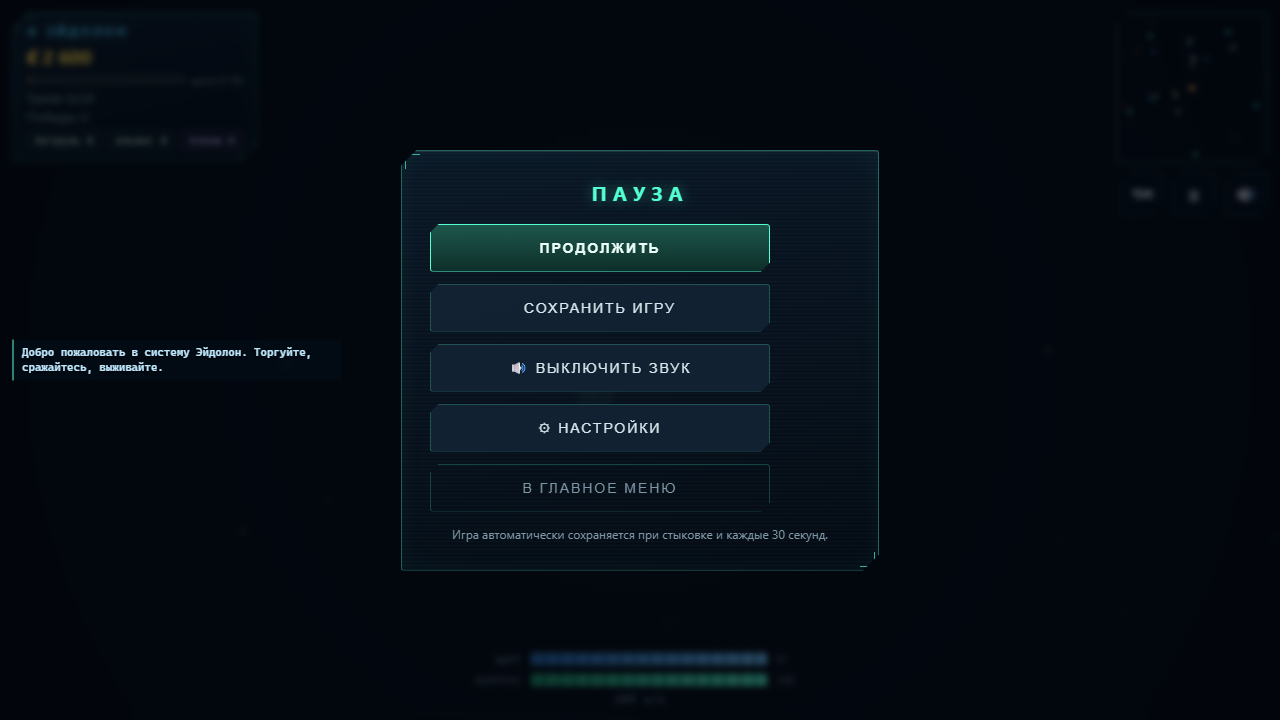
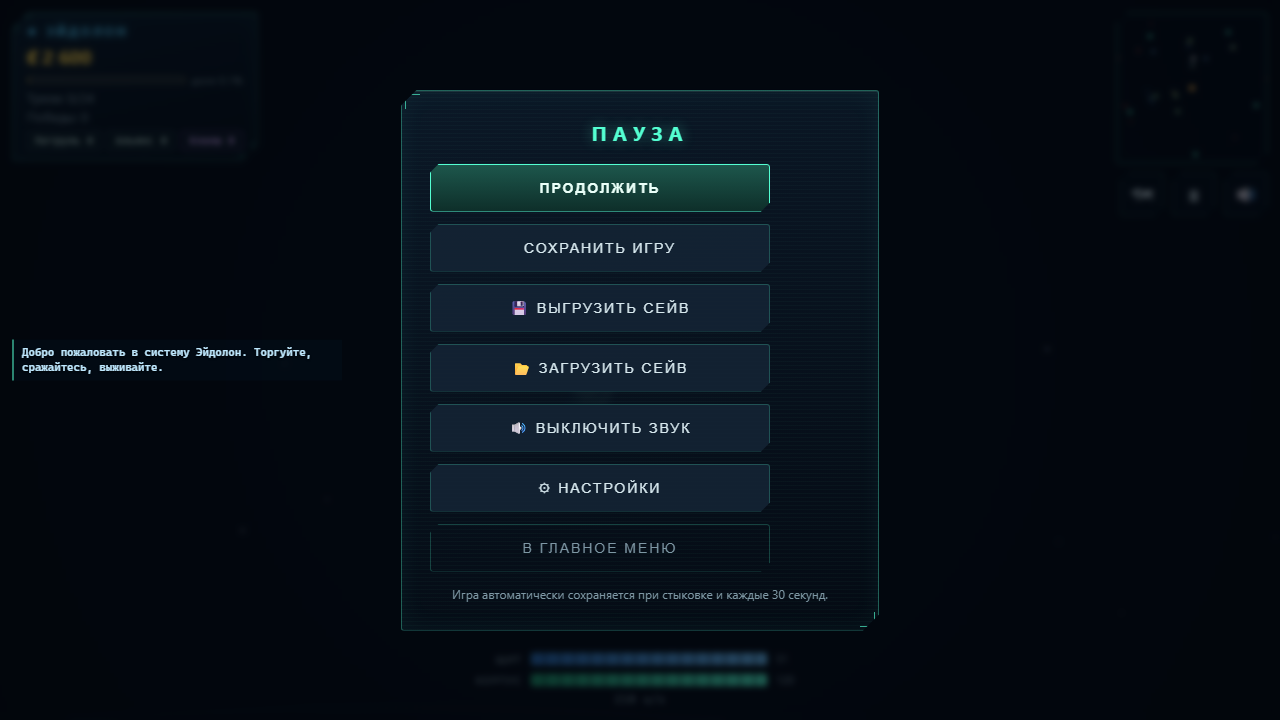
Этап 9c: экспорт/импорт сейва — выгрузка/загрузка JSON в меню паузы, общий валидатор save.ts

diff --git a/src/ui/PauseMenu.tsx b/src/ui/PauseMenu.tsx
@@ -1,10 +1,38 @@
-import { useState } from 'react'
+import { useRef, useState } from 'react'
 import { gameApi } from '@/game/uiBridge'
 import { SettingsPanel } from './SettingsPanel'
 
 export function PauseMenu({ muted }: { muted: boolean }) {
   const [settings, setSettings] = useState(false)
+  const [saveMsg, setSaveMsg] = useState<string | null>(null)
+  const fileRef = useRef<HTMLInputElement>(null)
   const api = () => gameApi.current
+
+  const exportSave = () => {
+    const json = api()?.exportSave()
+    if (!json) { setSaveMsg('Не удалось выгрузить сейв'); return }
+    const blob = new Blob([json], { type: 'application/json' })
+    const url = URL.createObjectURL(blob)
+    const a = document.createElement('a')
+    a.href = url
+    a.download = 'ranger-save.json'
+    a.click()
+    URL.revokeObjectURL(url)
+    setSaveMsg('Сейв выгружен в файл')
+  }
+
+  const importSave = async (file: File | undefined) => {
+    if (!file) return
+    try {
+      const text = await file.text()
+      const ok = api()?.importSave(text) ?? false
+      if (!ok) setSaveMsg('Файл не прошёл проверку — сейв не изменён')
+      // при успехе игра сама переходит в playing и меню закрывается
+    } catch {
+      setSaveMsg('Не удалось прочитать файл')
+    }
+  }
+
   return (
     <div className="screen dim-screen">
       <div className="menu-panel">
@@ -12,6 +40,15 @@ export function PauseMenu({ muted }: { muted: boolean }) {
         <div className="menu-buttons">
           <button className="btn btn-primary" onClick={() => api()?.resume()}>Продолжить</button>
           <button className="btn" onClick={() => api()?.saveNow()}>Сохранить игру</button>
+          <button className="btn" onClick={exportSave}>💾 Выгрузить сейв</button>
+          <button className="btn" onClick={() => fileRef.current?.click()}>📂 Загрузить сейв</button>
+          <input
+            ref={fileRef}
+            type="file"
+            accept=".json,application/json"
+            style={{ display: 'none' }}
+            onChange={(e) => { void importSave(e.target.files?.[0]); e.target.value = '' }}
+          />
           <button className="btn" onClick={() => api()?.toggleMute()}>
             {muted ? '🔇 Включить звук' : '🔊 Выключить звук'}
           </button>
@@ -19,6 +56,7 @@ export function PauseMenu({ muted }: { muted: boolean }) {
           {settings && <SettingsPanel onClose={() => setSettings(false)} />}
           <button className="btn btn-ghost" onClick={() => api()?.toTitle()}>В главное меню</button>
         </div>
+        {saveMsg && <div className="menu-note">{saveMsg}</div>}
         <div className="menu-note">Игра автоматически сохраняется при стыковке и каждые 30 секунд.</div>
       </div>
     </div>

diff --git a/src/game/game.ts b/src/game/game.ts
@@ -28,7 +28,7 @@ import {
 import type { SystemDef } from "./config";
 import { loadImage, loadPlanetTexture } from "./assets";
 import { economyTick, findDockTarget, generateWorld, goodName, kindName, priceOf, refreshAllPrices, updateOrbits } from "./world";
-import { loadSave, writeSave } from "./save";
+import { loadSave, writeSave, importSaveJson } from "./save";
 import { gameApi, uiBridge, type EndStats, type GameApi, type HudData, type MapSnapshot, type RadioSnapshot, type StationSnapshot } from "./uiBridge";
 import type { ActiveContract, Bolt, ContractOffer, Dockable, Faction, InstalledGear, MoneyPools, OccupationState, Pickup, PlayerState, PoolId, RaidOp, SaveGame, Ship } from "./types";
 import { AiState } from "./types";
@@ -1286,8 +1286,7 @@ export class Game {
     const save: SaveGame = {
       v: SAVE_VERSION,
       seed: this.seed,
-      system: this.systemDef.id,
-      player: {
+      system: this.systemDef.id,      player: {
         x: Math.round(p.x), y: Math.round(p.y),
         credits: Math.round(this.player.credits),
         hull: Math.round(p.hp), shield: Math.round(p.shield),
@@ -1339,6 +1338,21 @@ export class Game {
     };
     writeSave(save);
     uiBridge.set({ hasSave: true });
+  }
+
+  /** Этап 9c: выгрузка сейва в файл — свежая запись, потом чтение через валидатор. */
+  exportSave(): string | null {
+    this.saveNow();
+    const s = loadSave();
+    return s ? JSON.stringify(s) : null;
+  }
+
+  /** Этап 9c: загрузка сейва из файла; валидный — сразу восстанавливаемся. */
+  importSave(json: string): boolean {
+    if (!importSaveJson(json)) return false;
+    this.continueGame();
+    this.setNews("Сейв загружен из файла.");
+    return true;
   }
 
   /**
@@ -2887,6 +2901,8 @@ export class Game {
       setWaypoint: (kind, id) => this.setWaypoint(kind, id),
       clearWaypoint: () => this.clearWaypoint(),
       startRaid: (id) => this.startRaid(id),
+      exportSave: () => this.exportSave(),
+      importSave: (json) => this.importSave(json),
     };
     gameApi.current = api;
     // debug bridges (Этап 9b): only in `vite dev` or the test build (--mode test, .env.test).

diff --git a/src/game/save.ts b/src/game/save.ts
@@ -48,7 +48,11 @@ function validFleet(p: SaveGame["player"]): boolean {
 
 /** Parse and validate; returns null on any shape violation (caller falls back to a new game). */
 export function loadSave(): SaveGame | null {
-  const raw = storage.get<unknown>(SAVE_KEY, null);
+  return validateSave(storage.get<unknown>(SAVE_KEY, null));
+}
+
+/** The shape gate shared by localStorage load and file import (Этап 9c). */
+export function validateSave(raw: unknown): SaveGame | null {
   if (typeof raw !== "object" || raw === null) return null;
   const s = raw as SaveGame;
   if (s.v !== SAVE_VERSION) return null;
@@ -101,6 +105,19 @@ export function loadSave(): SaveGame | null {
 
 export function writeSave(save: SaveGame): void {
   storage.set(SAVE_KEY, save);
+}
+
+/**
+ * Import a save from a JSON file (Этап 9c): same validation gate as loadSave —
+ * a shaped-but-foreign file is rejected, a valid one replaces the stored save.
+ */
+export function importSaveJson(json: string): boolean {
+  let raw: unknown;
+  try { raw = JSON.parse(json); } catch { return false; }
+  const s = validateSave(raw);
+  if (!s) return false;
+  writeSave(s);
+  return true;
 }
 
 export function hasSave(): boolean {

diff --git a/src/game/uiBridge.ts b/src/game/uiBridge.ts
@@ -231,6 +231,10 @@ export interface GameApi {
   clearWaypoint(): void;
   /** Launch a raid operation on a free system (Этап 5d). */
   startRaid(systemId: string): void;
+  /** Export the current save as a JSON string (Этап 9c); null when nothing is stored. */
+  exportSave(): string | null;
+  /** Import a save from a JSON file (Этап 9c); true when the file passed validation. */
+  importSave(json: string): boolean;
 }
 
 export const gameApi: { current: GameApi | null } = { current: null };

diff --git a/PLAN.md b/PLAN.md
@@ -353,8 +353,13 @@
   (vite --mode test + .env.test) публикует мосты; каждый автотест имеет pre-хук на
   build:test, так что `npm run balance` и др. самодостаточны. __GAME_READY__ оставлен
   всегда — безобидный флаг готовности. Регрессия 7/7 зелёная.
-- [ ] **9c. Экспорт/импорт сейва.** Сейв только в localStorage: очистка браузера = потеря игры.
-  Кнопки «выгрузить/загрузить файл» в меню паузы (JSON, та же валидация save.ts).
+- [x] **9c. Экспорт/импорт сейва.** ✅ 2026-11-19. Сейв больше не заложник localStorage:
+  в меню паузы кнопки «💾 Выгрузить сейв» (Blob-скачивание `ranger-save.json`) и
+  «📂 Загрузить сейв» (выбор JSON-файла). Валидация общая: из `loadSave` выделен
+  `validateSave(raw)`, импорт идёт через `importSaveJson` (parse → validate → write),
+  бракованный файл отклоняется без порчи текущего сейва. В GameApi добавлены
+  `exportSave()/importSave()`; успешный импорт сразу восстанавливает игру
+  (`continueGame`) с новостью «Сейв загружен из файла». Регрессия 7/7 зелёная.
 - [ ] **9d. Мёртвые зависимости.** three/rapier3d/phaser/lucide-react/vitest не импортируются.
   Не удалять слепо: info.md требует сохранять структуру шаблона под графт бэкенда. Решить:
   либо графт бэкенда (тогда оставить), либо чистка + правка info.md.
